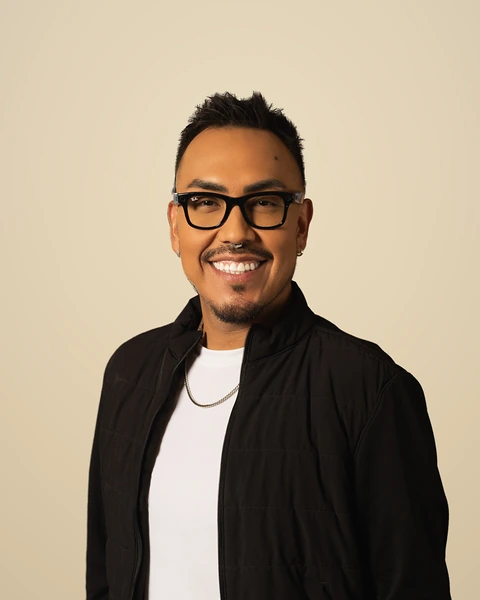
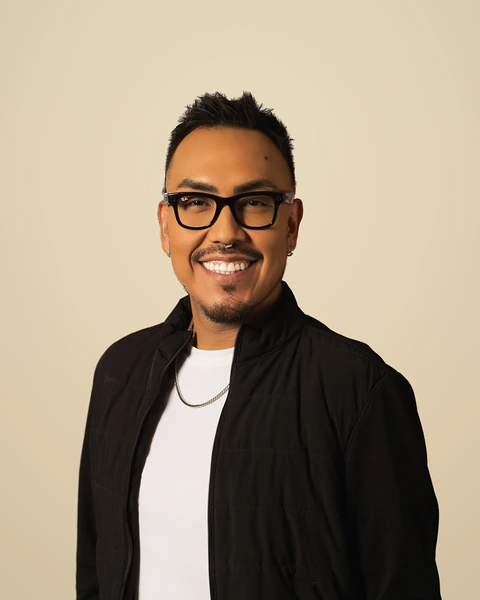
Fix name-card trees, footer pills, Call button, Devin photo nudge

diff --git a/index.html b/index.html
@@ -54,6 +54,8 @@ h1,h2.serif,.serif,h3{font-family:Literata,Georgia,serif;font-weight:600;color:v
 /* buttons */
 .btn{display:inline-flex;align-items:center;justify-content:center;gap:8px;min-height:48px;padding:0 24px;border-radius:999px;font-weight:600;font-size:.95rem;text-decoration:none;border:2px solid transparent;white-space:nowrap;transition:background .2s,transform .2s,border-color .2s}
 .btn svg{width:18px;height:18px;flex:none}
+.btn .callw{font-weight:700}
+.btn .callnum{font-weight:500;margin-left:.4em;font-variant-numeric:tabular-nums}
 .btn.gold{background:var(--gold);color:var(--ink)}
 .btn.gold:hover,.btn.gold:focus-visible{background:var(--gold2);transform:translateY(-1px)}
 .btn.ghost{border-color:rgba(244,236,218,.7);color:var(--cream);background:transparent}
@@ -107,8 +109,8 @@ h1,h2.serif,.serif,h3{font-family:Literata,Georgia,serif;font-weight:600;color:v
 .trees{display:grid;gap:14px}
 .tree{display:flex;align-items:center;gap:16px;padding:18px 20px;border-radius:18px;background:var(--card);border:1px solid var(--line)}
 .tree .ic{width:96px;height:96px;flex:none;border-radius:50%;background:#F4ECDA;border:2px solid var(--gold);box-shadow:0 6px 18px rgba(0,0,0,.22);display:grid;place-items:center}
-.tree .ic img{display:block;height:76px;width:auto}
-@media (max-width:374px){.tree{gap:12px;padding:16px}.tree .ic{width:80px;height:80px}.tree .ic img{height:62px}}
+.tree .ic img{display:block;height:82px;width:auto}
+@media (max-width:374px){.tree{gap:12px;padding:16px}.tree .ic{width:80px;height:80px}.tree .ic img{height:68px}}
 .tree p{color:var(--text);line-height:1.5}
 .tree p strong{display:block;font-family:Literata,Georgia,serif;font-size:1.6rem;font-weight:600;color:var(--cream);line-height:1.15;margin-bottom:2px}
 .tree.two{background:transparent;border-style:dashed}
@@ -172,8 +174,8 @@ footer{background:var(--foot);border-top:1px solid var(--line);padding:56px 0 ca
 .fcol p{margin-top:12px;color:var(--muted)}
 footer .phones{display:grid;grid-template-columns:max-content;gap:10px;justify-content:start}
 @media (max-width:759px){footer .phones{justify-content:center}}
-footer .phones a{display:grid;grid-template-columns:18px 3.2em auto;align-items:center;column-gap:10px;height:46px;padding:0 20px;border-radius:999px;text-decoration:none;color:var(--cream);background:rgba(244,236,218,.06);border:1px solid rgba(244,236,218,.35);white-space:nowrap;transition:all .2s}
-footer .phones .kind{display:block;text-align:left}
+footer .phones a{display:grid;grid-template-columns:18px 2.6em auto;align-items:center;column-gap:9px;height:46px;padding:0 20px;border-radius:999px;text-decoration:none;color:var(--cream);background:rgba(244,236,218,.06);border:1px solid rgba(244,236,218,.35);white-space:nowrap;transition:all .2s}
+footer .phones .kind{display:block;text-align:right}
 footer .phones .num{font-variant-numeric:tabular-nums;font-feature-settings:"tnum" 1}
 footer .phones a:hover,footer .phones a:focus-visible{background:var(--gold);border-color:var(--gold);color:var(--ink)}
 footer .phones svg{width:18px;height:18px;flex:none}
@@ -228,7 +230,7 @@ footer .phones .kind{font-weight:600}
 <span class="badge">Opening 2027 &middot; Greater Phoenix</span>
 <h1 id="hero-h">Rooted in diversity,<br> growing together.</h1>
 <p class="lead">A practice where <b>everyone</b> belongs.</p>
-<div class="ctas"><a class="btn gold" href="#signup">Notify me</a><a class="btn ghost" href="tel:+16029052222" aria-label="Call main line (602) 905-2222"><svg xmlns="http://www.w3.org/2000/svg" viewBox="0 0 24 24" fill="currentColor" aria-hidden="true" focusable="false"><path d="M19.95 21q-3.125 0-6.175-1.362t-5.55-3.863t-3.862-5.55T3 4.05q0-.45.3-.75t.75-.3H8.1q.35 0 .625.238t.325.562l.65 3.5q.05.4-.025.675T9.4 8.45L6.975 10.9q.5.925 1.187 1.787t1.513 1.663q.775.775 1.625 1.438T13.1 17l2.35-2.35q.225-.225.588-.337t.712-.063l3.45.7q.35.1.575.363T21 15.9v4.05q0 .45-.3.75t-.75.3M6.025 9l1.65-1.65L7.25 5H5.025q.125 1.025.35 2.025T6.025 9m8.95 8.95q.975.425 1.988.675T19 18.95v-2.2l-2.35-.475zm0 0"/></svg><span>Call (602) 905-2222</span></a></div>
+<div class="ctas"><a class="btn gold" href="#signup">Notify me</a><a class="btn ghost" href="tel:+16029052222" aria-label="Call main line (602) 905-2222"><svg xmlns="http://www.w3.org/2000/svg" viewBox="0 0 24 24" fill="currentColor" aria-hidden="true" focusable="false"><path d="M19.95 21q-3.125 0-6.175-1.362t-5.55-3.863t-3.862-5.55T3 4.05q0-.45.3-.75t.75-.3H8.1q.35 0 .625.238t.325.562l.65 3.5q.05.4-.025.675T9.4 8.45L6.975 10.9q.5.925 1.187 1.787t1.513 1.663q.775.775 1.625 1.438T13.1 17l2.35-2.35q.225-.225.588-.337t.712-.063l3.45.7q.35.1.575.363T21 15.9v4.05q0 .45-.3.75t-.75.3M6.025 9l1.65-1.65L7.25 5H5.025q.125 1.025.35 2.025T6.025 9m8.95 8.95q.975.425 1.988.675T19 18.95v-2.2l-2.35-.475zm0 0"/></svg><span class="call"><span class="callw">Call</span><span class="callnum">(602) 905-2222</span></span></a></div>
 <ul class="checks"><li><svg viewBox="0 0 22 22" aria-hidden="true" focusable="false"><circle cx="11" cy="11" r="10" fill="#E8B33A"/><path d="M6.3 11.4l3.1 3 6.3-6.6" stroke="#1C352C" stroke-width="2.3" fill="none" stroke-linecap="round" stroke-linejoin="round"/></svg><span>Care for the whole family</span></li><li><svg viewBox="0 0 22 22" aria-hidden="true" focusable="false"><circle cx="11" cy="11" r="10" fill="#E8B33A"/><path d="M6.3 11.4l3.1 3 6.3-6.6" stroke="#1C352C" stroke-width="2.3" fill="none" stroke-linecap="round" stroke-linejoin="round"/></svg><span>LGBTQ+ friendly, always</span></li><li><svg viewBox="0 0 22 22" aria-hidden="true" focusable="false"><circle cx="11" cy="11" r="10" fill="#E8B33A"/><path d="M6.3 11.4l3.1 3 6.3-6.6" stroke="#1C352C" stroke-width="2.3" fill="none" stroke-linecap="round" stroke-linejoin="round"/></svg><span>Unhurried visits, every&nbsp;time</span></li></ul>
 </div>
 <figure class="art">
@@ -246,7 +248,7 @@ footer .phones .kind{font-weight:600}
 <p class="txt vision"><em>Like the shade of the mesquite and the linden:</em> support when life feels heavy, safety to be yourself, and a welcome for whoever you call family.</p>
 <p class="more"><a class="btn ghost" href="our-story.html">Read our founders’ story</a></p>
 </div>
-<div class="trees"><div class="tree"><span class="ic"><picture><source type="image/webp" srcset="tree-kui.webp?v=2"><img src="tree-kui.png?v=2" width="88" height="152" alt=""></picture></span><p><strong>Kui</strong> is Tohono Oʼodham for the mesquite tree.</p></div><div class="tree"><span class="ic"><picture><source type="image/webp" srcset="tree-lipa.webp?v=2"><img src="tree-lipa.png?v=2" width="89" height="152" alt=""></picture></span><p><strong>Lipa</strong> is Bosnian for the linden tree.</p></div></div>
+<div class="trees"><div class="tree"><span class="ic"><picture><source type="image/webp" srcset="tree-kui.webp?v=3"><img src="tree-kui.png?v=3" width="129" height="200" alt=""></picture></span><p><strong>Kui</strong> is Tohono Oʼodham for the mesquite tree.</p></div><div class="tree"><span class="ic"><picture><source type="image/webp" srcset="tree-lipa.webp?v=3"><img src="tree-lipa.png?v=3" width="129" height="200" alt=""></picture></span><p><strong>Lipa</strong> is Bosnian for the linden tree.</p></div></div>
 </div></section>
 <section class="band a" id="services" aria-labelledby="services-h"><div class="wrap">
 <h2 class="label" id="services-h">Services</h2>
@@ -255,7 +257,7 @@ footer .phones .kind{font-weight:600}
 <p class="note">These are the services we plan to offer. We’ll confirm the final list before opening.</p>
 </div></section>
 <section class="band b team" id="team" aria-labelledby="team-h"><div class="wrap">
-<picture class="photo"><source type="image/webp" srcset="devin-dark.webp?v=5 1x, devin-dark-2x.webp?v=5 2x"><img src="devin-dark.png?v=5" width="480" height="600" loading="lazy" decoding="async" alt="Devin Mujkanović, family nurse practitioner"></picture>
+<picture class="photo"><source type="image/webp" srcset="devin-dark.webp?v=6 1x, devin-dark-2x.webp?v=6 2x"><img src="devin-dark.png?v=6" width="480" height="600" loading="lazy" decoding="async" alt="Devin Mujkanović, family nurse practitioner"></picture>
 <div><h2 class="label" id="team-h">Your care team</h2><h3>Devin Mujkanović, family nurse practitioner</h3><p class="txt">Kui Lipa Health will be led by Devin Mujkanović, a family nurse practitioner who will be board-certified before our doors open. Before nursing, Devin worked in patient navigation, making sure no one had to face a confusing health system on their own. That’s why care here feels personal. Expect a provider who knows you by name, remembers your story, and always makes time for your questions.</p></div>
 </div></section>
 <section class="band c" id="expect" aria-labelledby="expect-h"><div class="wrap">

diff --git a/our-story.html b/our-story.html
@@ -51,6 +51,8 @@ h1,h2.serif,.serif,h3{font-family:Literata,Georgia,serif;font-weight:600;color:v
 /* buttons */
 .btn{display:inline-flex;align-items:center;justify-content:center;gap:8px;min-height:48px;padding:0 24px;border-radius:999px;font-weight:600;font-size:.95rem;text-decoration:none;border:2px solid transparent;white-space:nowrap;transition:background .2s,transform .2s,border-color .2s}
 .btn svg{width:18px;height:18px;flex:none}
+.btn .callw{font-weight:700}
+.btn .callnum{font-weight:500;margin-left:.4em;font-variant-numeric:tabular-nums}
 .btn.gold{background:var(--gold);color:var(--ink)}
 .btn.gold:hover,.btn.gold:focus-visible{background:var(--gold2);transform:translateY(-1px)}
 .btn.ghost{border-color:rgba(244,236,218,.7);color:var(--cream);background:transparent}
@@ -104,8 +106,8 @@ h1,h2.serif,.serif,h3{font-family:Literata,Georgia,serif;font-weight:600;color:v
 .trees{display:grid;gap:14px}
 .tree{display:flex;align-items:center;gap:16px;padding:18px 20px;border-radius:18px;background:var(--card);border:1px solid var(--line)}
 .tree .ic{width:96px;height:96px;flex:none;border-radius:50%;background:#F4ECDA;border:2px solid var(--gold);box-shadow:0 6px 18px rgba(0,0,0,.22);display:grid;place-items:center}
-.tree .ic img{display:block;height:76px;width:auto}
-@media (max-width:374px){.tree{gap:12px;padding:16px}.tree .ic{width:80px;height:80px}.tree .ic img{height:62px}}
+.tree .ic img{display:block;height:82px;width:auto}
+@media (max-width:374px){.tree{gap:12px;padding:16px}.tree .ic{width:80px;height:80px}.tree .ic img{height:68px}}
 .tree p{color:var(--text);line-height:1.5}
 .tree p strong{display:block;font-family:Literata,Georgia,serif;font-size:1.6rem;font-weight:600;color:var(--cream);line-height:1.15;margin-bottom:2px}
 .tree.two{background:transparent;border-style:dashed}
@@ -169,8 +171,8 @@ footer{background:var(--foot);border-top:1px solid var(--line);padding:56px 0 ca
 .fcol p{margin-top:12px;color:var(--muted)}
 footer .phones{display:grid;grid-template-columns:max-content;gap:10px;justify-content:start}
 @media (max-width:759px){footer .phones{justify-content:center}}
-footer .phones a{display:grid;grid-template-columns:18px 3.2em auto;align-items:center;column-gap:10px;height:46px;padding:0 20px;border-radius:999px;text-decoration:none;color:var(--cream);background:rgba(244,236,218,.06);border:1px solid rgba(244,236,218,.35);white-space:nowrap;transition:all .2s}
-footer .phones .kind{display:block;text-align:left}
+footer .phones a{display:grid;grid-template-columns:18px 2.6em auto;align-items:center;column-gap:9px;height:46px;padding:0 20px;border-radius:999px;text-decoration:none;color:var(--cream);background:rgba(244,236,218,.06);border:1px solid rgba(244,236,218,.35);white-space:nowrap;transition:all .2s}
+footer .phones .kind{display:block;text-align:right}
 footer .phones .num{font-variant-numeric:tabular-nums;font-feature-settings:"tnum" 1}
 footer .phones a:hover,footer .phones a:focus-visible{background:var(--gold);border-color:var(--gold);color:var(--ink)}
 footer .phones svg{width:18px;height:18px;flex:none}
@@ -239,7 +241,7 @@ footer .phones .kind{font-weight:600}
 </div></section>
 <section class="band a sname" aria-labelledby="sname-h"><div class="wrap">
 <div><h2 class="label" id="sname-h">Our name</h2><p class="big">Two trees from our founders’ homelands, rooted side by side.</p></div>
-<div class="trees"><div class="tree"><span class="ic"><picture><source type="image/webp" srcset="tree-kui.webp?v=2"><img src="tree-kui.png?v=2" width="88" height="152" alt=""></picture></span><p><strong>Kui</strong> is Tohono Oʼodham for the mesquite tree.</p></div><div class="tree"><span class="ic"><picture><source type="image/webp" srcset="tree-lipa.webp?v=2"><img src="tree-lipa.png?v=2" width="89" height="152" alt=""></picture></span><p><strong>Lipa</strong> is Bosnian for the linden tree.</p></div></div>
+<div class="trees"><div class="tree"><span class="ic"><picture><source type="image/webp" srcset="tree-kui.webp?v=3"><img src="tree-kui.png?v=3" width="129" height="200" alt=""></picture></span><p><strong>Kui</strong> is Tohono Oʼodham for the mesquite tree.</p></div><div class="tree"><span class="ic"><picture><source type="image/webp" srcset="tree-lipa.webp?v=3"><img src="tree-lipa.png?v=3" width="129" height="200" alt=""></picture></span><p><strong>Lipa</strong> is Bosnian for the linden tree.</p></div></div>
 </div></section>
 <section class="band b send" aria-label="Stay in touch"><div class="wrap">
 <div class="sctas"><a class="btn gold" href="index.html#signup">Get notified when we open</a><a class="btn ghost" href="index.html">Back to the homepage</a></div>

diff --git a/privacy.html b/privacy.html
@@ -36,6 +36,8 @@ h1,h2.serif,.serif,h3{font-family:Literata,Georgia,serif;font-weight:600;color:v
 /* buttons */
 .btn{display:inline-flex;align-items:center;justify-content:center;gap:8px;min-height:48px;padding:0 24px;border-radius:999px;font-weight:600;font-size:.95rem;text-decoration:none;border:2px solid transparent;white-space:nowrap;transition:background .2s,transform .2s,border-color .2s}
 .btn svg{width:18px;height:18px;flex:none}
+.btn .callw{font-weight:700}
+.btn .callnum{font-weight:500;margin-left:.4em;font-variant-numeric:tabular-nums}
 .btn.gold{background:var(--gold);color:var(--ink)}
 .btn.gold:hover,.btn.gold:focus-visible{background:var(--gold2);transform:translateY(-1px)}
 .btn.ghost{border-color:rgba(244,236,218,.7);color:var(--cream);background:transparent}
@@ -89,8 +91,8 @@ h1,h2.serif,.serif,h3{font-family:Literata,Georgia,serif;font-weight:600;color:v
 .trees{display:grid;gap:14px}
 .tree{display:flex;align-items:center;gap:16px;padding:18px 20px;border-radius:18px;background:var(--card);border:1px solid var(--line)}
 .tree .ic{width:96px;height:96px;flex:none;border-radius:50%;background:#F4ECDA;border:2px solid var(--gold);box-shadow:0 6px 18px rgba(0,0,0,.22);display:grid;place-items:center}
-.tree .ic img{display:block;height:76px;width:auto}
-@media (max-width:374px){.tree{gap:12px;padding:16px}.tree .ic{width:80px;height:80px}.tree .ic img{height:62px}}
+.tree .ic img{display:block;height:82px;width:auto}
+@media (max-width:374px){.tree{gap:12px;padding:16px}.tree .ic{width:80px;height:80px}.tree .ic img{height:68px}}
 .tree p{color:var(--text);line-height:1.5}
 .tree p strong{display:block;font-family:Literata,Georgia,serif;font-size:1.6rem;font-weight:600;color:var(--cream);line-height:1.15;margin-bottom:2px}
 .tree.two{background:transparent;border-style:dashed}
@@ -154,8 +156,8 @@ footer{background:var(--foot);border-top:1px solid var(--line);padding:56px 0 ca
 .fcol p{margin-top:12px;color:var(--muted)}
 footer .phones{display:grid;grid-template-columns:max-content;gap:10px;justify-content:start}
 @media (max-width:759px){footer .phones{justify-content:center}}
-footer .phones a{display:grid;grid-template-columns:18px 3.2em auto;align-items:center;column-gap:10px;height:46px;padding:0 20px;border-radius:999px;text-decoration:none;color:var(--cream);background:rgba(244,236,218,.06);border:1px solid rgba(244,236,218,.35);white-space:nowrap;transition:all .2s}
-footer .phones .kind{display:block;text-align:left}
+footer .phones a{display:grid;grid-template-columns:18px 2.6em auto;align-items:center;column-gap:9px;height:46px;padding:0 20px;border-radius:999px;text-decoration:none;color:var(--cream);background:rgba(244,236,218,.06);border:1px solid rgba(244,236,218,.35);white-space:nowrap;transition:all .2s}
+footer .phones .kind{display:block;text-align:right}
 footer .phones .num{font-variant-numeric:tabular-nums;font-feature-settings:"tnum" 1}
 footer .phones a:hover,footer .phones a:focus-visible{background:var(--gold);border-color:var(--gold);color:var(--ink)}
 footer .phones svg{width:18px;height:18px;flex:none}
